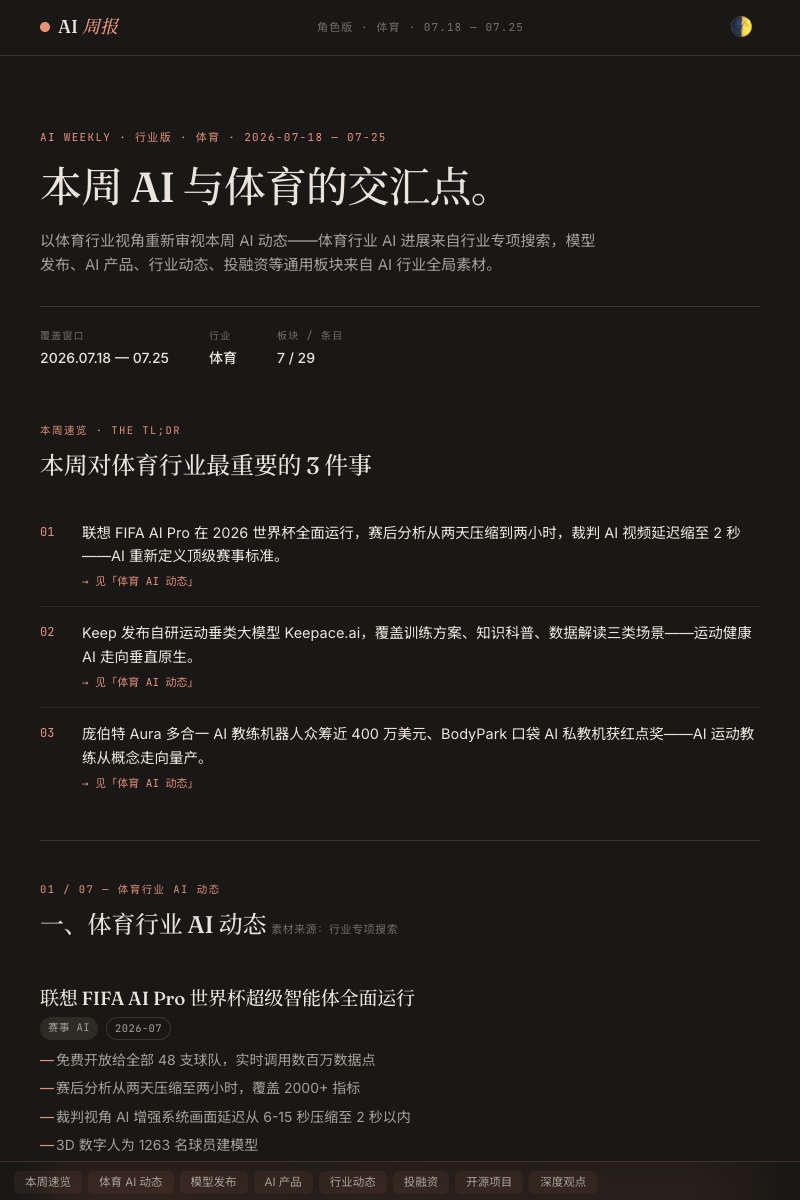
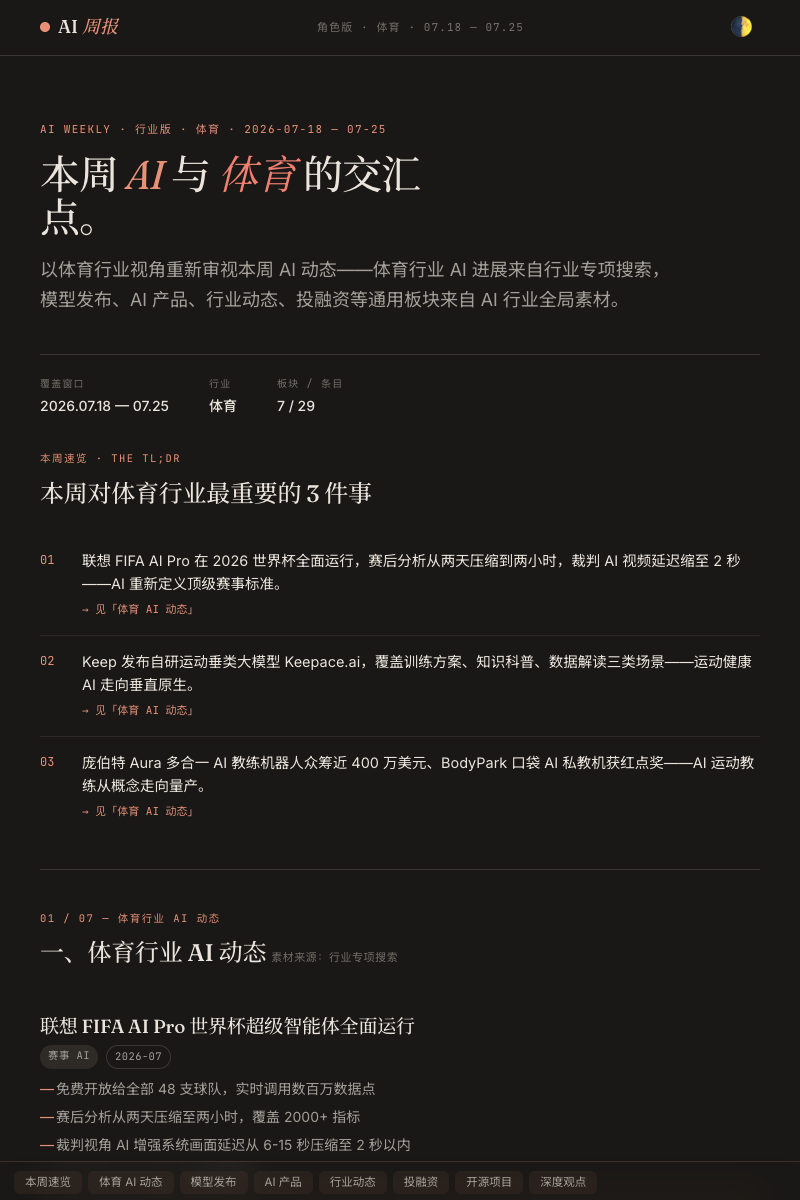
style: hero大字统一强调色(clamp(44px,6.6vw,84px));去掉按行业分色逻辑

diff --git a/.workbuddy/memory/2026-07-25.md b/.workbuddy/memory/2026-07-25.md
@@ -1,0 +1,33 @@
+# 2026-07-25 工作日志
+
+## 金融行业版 AI 周报
+
+- 为用户制作了金融行业从业者版 AI 周报（2026-07-18 ~ 2026-07-25）
+- 首次遇到金融行业，完成 industries.md 关键词记录回填
+- 产出文件：`artifacts/ai-persona-digest/AI周报-行业-金融-2026-07-18_2026-07-25.md` 和 `.html`
+- 内容：6 板块、26 条（金融 AI 动态 8 条 + 模型发布 4 条 + AI 产品 3 条 + 行业动态 5 条 + 开源 2 条 + 深度观点 3 条）
+
+## SEO/Skill 规则更新
+
+- 精简 frontmatter description 并统一第三人称
+- 选项描述也改为第三人称
+- 增加信源验证规则（排除公关稿、软文,要求可追溯原始链接）
+- 通用素材搜索从 7 类增至 8 类：行业动态和投融资分拆为两个独立板块
+- 明确数据流分工：板块一素材来自行业专项搜索,其余板块来自通用 8 类搜索
+- 同上更新 personas.md 模板和说明
+
+## UI/UX 改进
+
+- 增加亮色/暗色模式切换按钮（右上角 🌓，localStorage 持久化）
+- 移动端 TOC 粘性横条改为固定在底部（position:fixed;bottom:0），毛玻璃半透明效果
+- 修复移动端 TOC CSS 继承 bug（缺少 top:auto 导致 bottom:0 被覆盖）
+- 增加 scroll-padding-bottom:54px 解决固定底栏遮挡锚点定位问题
+- 移动端 shell 增加 padding-bottom:62px 避免内容被底栏遮挡
+- assets/template.html 同步更新以上所有 UI 改动
+
+## 体育行业版 AI 周报
+
+- 生成体育行业从业者版 AI 周报（2026-07-18 ~ 2026-07-25）
+- 首次遇到体育行业，完成 industries.md 关键词记录回填
+- 产出文件：`artifacts/ai-persona-digest/AI周报-行业-体育-2026-07-18_2026-07-25.md` 和 `.html`
+- 内容：7 板块、29 条（体育 AI 动态 7 条 + 模型发布 5 条 + AI 产品 4 条 + 行业动态 4 条 + 投融资 2 条 + 开源 4 条 + 深度观点 4 条），各板块数量满足质量要求

diff --git a/SKILL.md b/SKILL.md
@@ -136,6 +136,7 @@ AskUserQuestion({
 
 - **不改 `<style>`**:配色、字体、间距跨角色保持一致;要改样式就统一改这份 `assets/template.html`,不要每次生成时顺手改样式
 - 复用 `.hero` / `.shell` / `article` / `aside.toc` / `section.category` / `.item` / `.why` / `.sources` / `footer` 这套现成组件,内容替换,DOM 结构不变
+- **Hero 大字规则(关键)**:`<h1 class="hero-title">` 必须用模板的 `clamp(44px, 6.6vw, 84px)` 字号,不要写死;`AI` 和行业关键词都用 `<em>` 包裹,统一用 `var(--accent)` 强调色。详见 references/personas.md「通用 · Hero 大字规则」节。
 - **分节数量按该角色的实际结构走,不是固定 8 类**:小白版通常 1–2 个 `section.category`(比如"详情"一节),产品经理/技术研发版通常 3 个主题分节,行业从业者版按通用板块结构展开(行业专项 + 模型发布 / AI 产品 / 行业动态 / 开源 / 深度观点等,可选的关注公司动态)——`aside.toc` 的锚点列表要跟着实际分节数改,不要照抄 8 个锚点
 - `.topnav-meta` 和 `.hero-label` 要标出这是哪个角色版本,例如 `角色版 · 小白 · <窗口>` / `AI Weekly · 产品经理版`,让人一眼看出这不是通用版
 - 单文件自足:所有 CSS 内嵌,只从 Google Fonts 加载字体,不引入其他外部依赖

diff --git a/references/personas.md b/references/personas.md
@@ -6,6 +6,24 @@
 
 ---
 
+## 通用 · Hero 大字规则(所有角色都适用)
+
+`<h1 class="hero-title">` 这一行的字号、关键词标色必须和模板一致,不能因为是新生成的就把样式缩水。
+
+**字号**:跟随模板 `.hero-title` 的 `font-size: clamp(...)`,保证窗口宽度变化时大字跟着放大缩小,不能写死。
+
+**关键词标色**(每个角色版本必做):
+- **`AI`** 和**行业关键词**(如有)都用 `<em>` 包裹,统一继承 `.hero-title em` 的 `color: var(--accent)`,使用同一个强调色
+- 产品经理/技术研发/小白版只标 AI(1 个 `<em>`),行业版标 AI 和行业名(2 个 `<em>`)
+
+**标题文案模板**(按角色套用):
+- 小白版:`这周 <em>AI</em> 又搞了什么新闻,<br/>我用大白话跟你说。`
+- 产品经理版:`这周 <em>AI</em> 产品在玩什么新花样。`
+- 技术研发版:`这周 <em>AI</em> 技术栈的硬核进展。`
+- 行业从业者版:`本周 <em>AI</em> 与 <em class="ind">行业名</em> 的交汇点。`(可调整措辞,但必须包含两个关键词标色)
+
+---
+
 ## AI 小白
 
 **目标**:看得懂、有代入感。读完知道"这周 AI 又出了啥、跟我有什么关系",不是来学技术的。

diff --git a/.workbuddy/memory/2026-07-24.md b/.workbuddy/memory/2026-07-24.md
@@ -1,0 +1,10 @@
+# 2026-07-24 工作日志
+
+## AI Persona Digest 首轮试跑
+
+- 为用户制作了影视行业从业者版 AI 周报（2026-07-17 ~ 2026-07-24）
+- 首次遇到影视行业，完成 industries.md 关键词记录回填（影视行业专项搜索关键词中英各一份）
+- 根据用户反馈，将 SKILL.md 中的通用素材搜索从 8 类改为 7 类，去掉 AI 教育——AI 教育是垂直行业分类，走行业专项搜索流程即可
+- 同步更新了 personas.md 中涉及 AI 教育板块和 8 类引用的 3 处内容
+- 根据试跑体验更新了行业从业者版的输出结构规则：不再把所有通用内容合并到"跨板块外溢"一个锅里，而是保持与通用周报类似的板块结构（模型发布、AI 产品、行业动态、开源、深度观点各自独立成节），每条仍加"对行业的影响"解读
+- 产出文件：`artifacts/ai-persona-digest/AI周报-行业-影视-2026-07-17_2026-07-24.md` 和 `.html`（6 板块、23 条）
